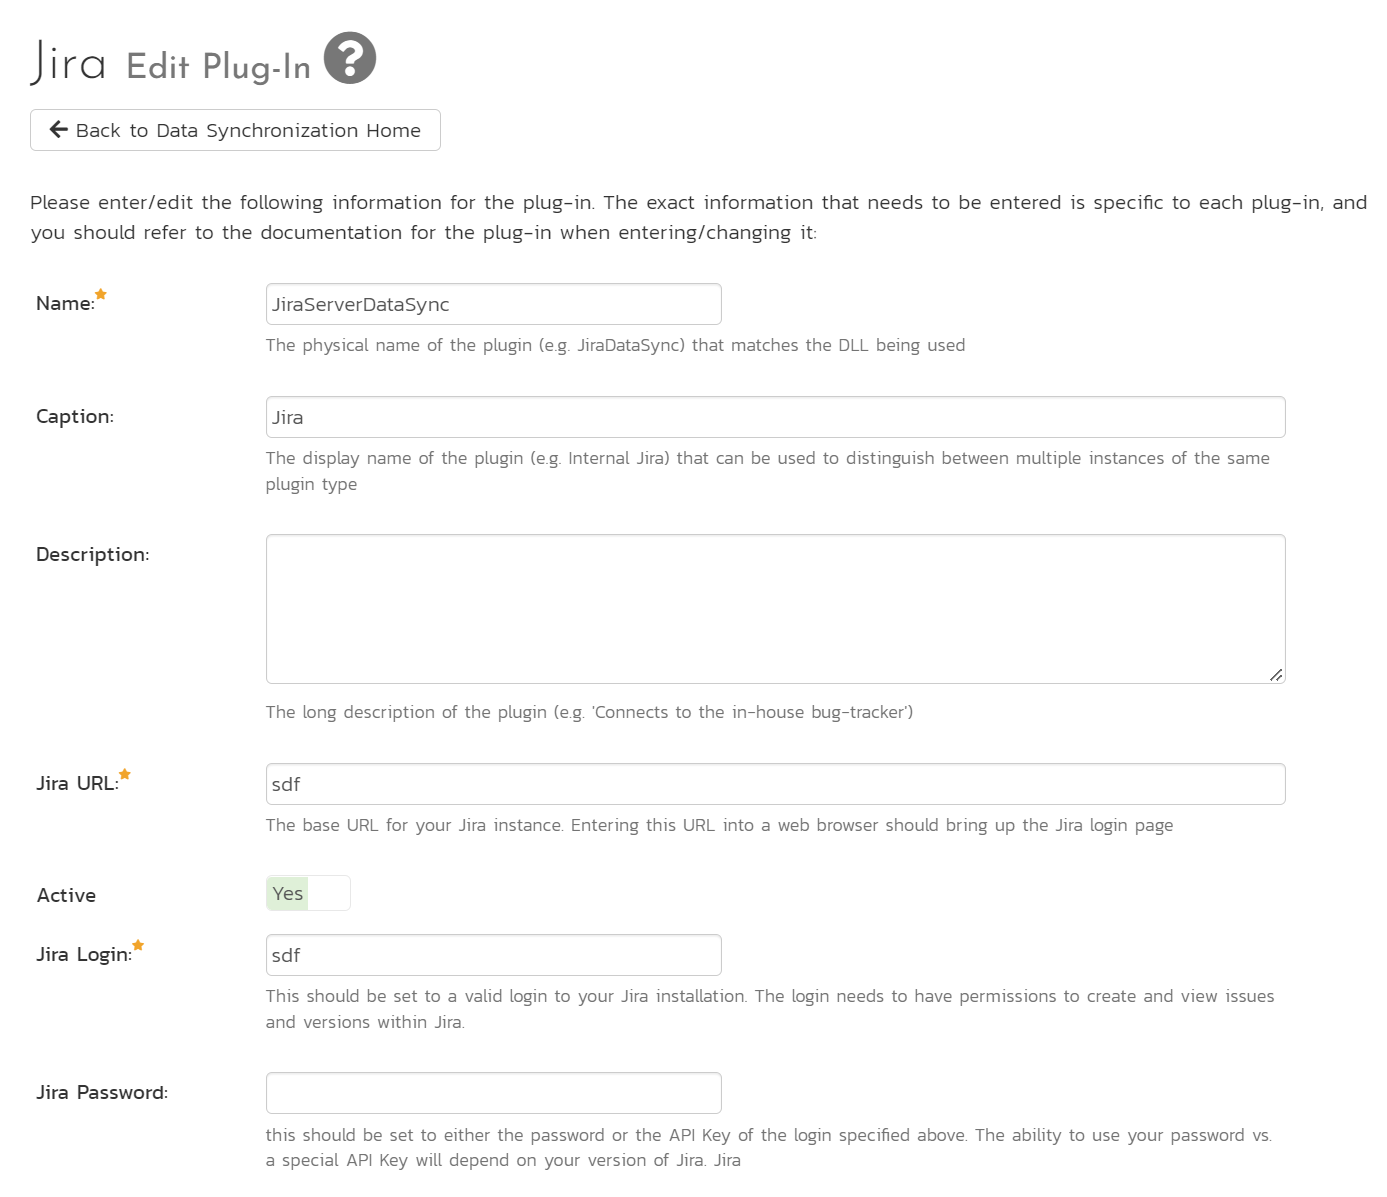
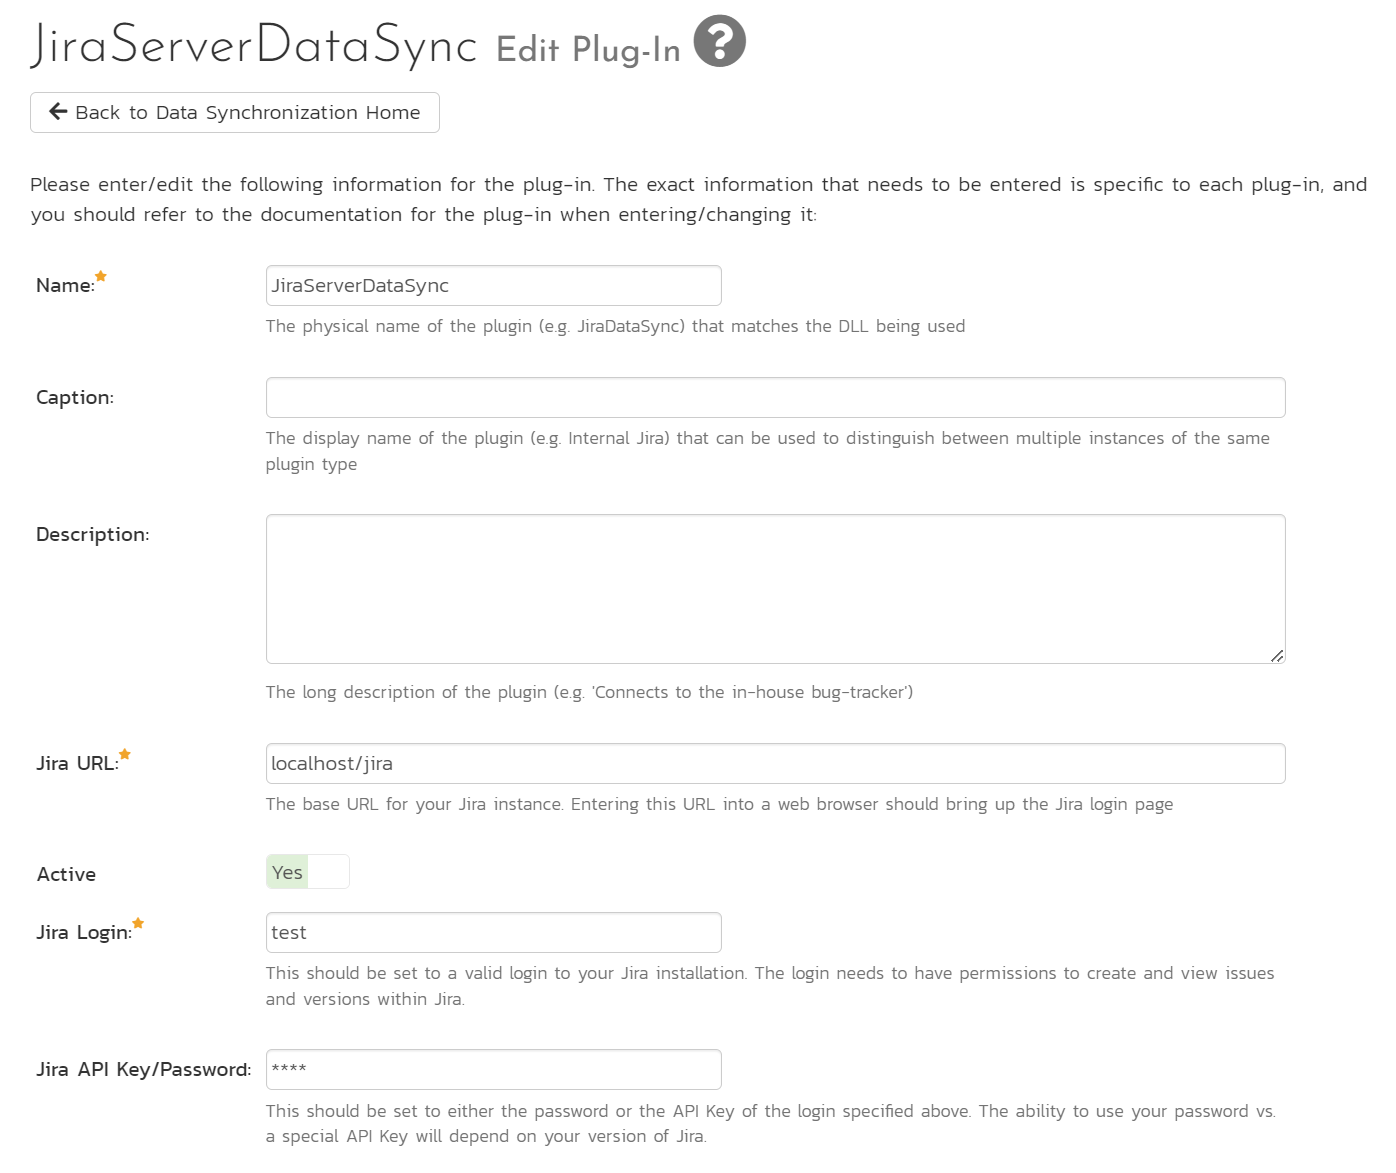
updates jira server with server specific information

diff --git a/docs/External-Bug-Tracking-Integration/Using-SpiraTeam-with-JIRA-5+.md b/docs/External-Bug-Tracking-Integration/Using-SpiraTeam-with-JIRA-5+.md
@@ -1,6 +1,6 @@
-# Using Spira with Jira Cloud
+# Using Spira with Jira Server (or DataCenter)
 ## Overview
-Teams can work seamlessly using both Spira and Jira Cloud, using Inflectra's Jira Cloud data sync engine to keep key information in sync between both applications.
+Teams can work seamlessly using both Spira and Jira Server or Jira DataCenter (hereafter just Jira Server or Jira), using Inflectra's Jira data sync engine to keep key information in sync between both applications.
 
 !!! example "Real world example"
     - The QA team uses Spira for requirements and test management.
@@ -19,7 +19,7 @@ Teams can work seamlessly using both Spira and Jira Cloud, using Inflectra's Jir
 | Comments      | Comments                   |
 | Attachments   | Documents                  |
 
-**The table below shows a summary of how data is synced from/to Spira and Jira Cloud**. The Jira datasync gives you three different syncing modes, depending on your workflows and needs. 
+**The table below shows a summary of how data is synced from/to Spira and Jira Server**. The Jira datasync gives you three different syncing modes, depending on your workflows and needs. 
 
 | Artifact         | Type of Change | Default                                               | Bidirectional                                         | NoRequirements                                        | NoIncidents                                           |
 | ---------------- | -------------- | ----------------------------------------------------- | ----------------------------------------------------- | ----------------------------------------------------- | ----------------------------------------------------- |
@@ -47,8 +47,8 @@ Notes about syncing:
 For the data sync to work correctly make sure you meet **all** of the steps below:
 
 - [x] Use Spira v6.3.0.1+
-- [x] Use Jira Cloud (we have a [separate data sync for Jira Server / DataCenter](../Using-SpiraTeam-with-Jira-5+).)
-- [x] [Setup a datasync  service](../Setting-up-Data-Synchronization/) - either in Inflectra's cloud or on your own servers
+- [x] Use Jira Server or DataCenter 5+
+- [x] [Setup a datasync  service](../Setting-up-Data-Synchronization/) on your own servers
 - [x] [Configure the plugin in Spira](#configure-the-plugin)
 - [x] [Configure system wide user mapping](#user-mapping)
 - [x] [Download the Jira configuration helper application](#jira-configuration-helper)
@@ -67,22 +67,22 @@ Then, for each product you want to sync:
 - Login to Spira as a system administrator
 - Go to System Administration > Integrations > Data Synchronization
 
-![](img/Using_SpiraTeam_with_JIRA_5+_16.png)
+![](img/Using_SpiraTeam_with_JIRA_5+_16-server.png)
 
-- Find the plugin called **JiraDataSync** and click the "Edit" button to open the settings page
+- Find the plugin called **JiraServerDataSync** and click the "Edit" button to open the settings page
 
 ??? question "What do if the plugin is not there"
     If you don't see the plug-in in the list, click the ""Add" button at the top of the page. This opens the generic Data Sync plug-in details page. This is not yet customized to help you more easily set up the data sync. We recommend, adding just enough information now to create the plug-in. Then edit the plug-in after its made to complete the process.
 
     To start, fill in the following fields:
 
-    - Name: enter "JiraDataSync" exactly
+    - Name: enter "JiraServerDataSync" exactly
     - Connection Info: enter the the full URL to the Jira instance (see "Jira URL" below)
-    - Login: enter your Atlassian cloud login
+    - Login: enter your Jira login credentials
 
     Now click "Add" to save the plug-in and return you to the list of plug-ins. Now follow the instructions below.
 
-![](img/JiraCloud-Plugin-Config1.png)
+![](img/JiraServer-Plugin-Config1.png)
 
 You need to fill in the following fields for the plugin to operate correctly:
 
